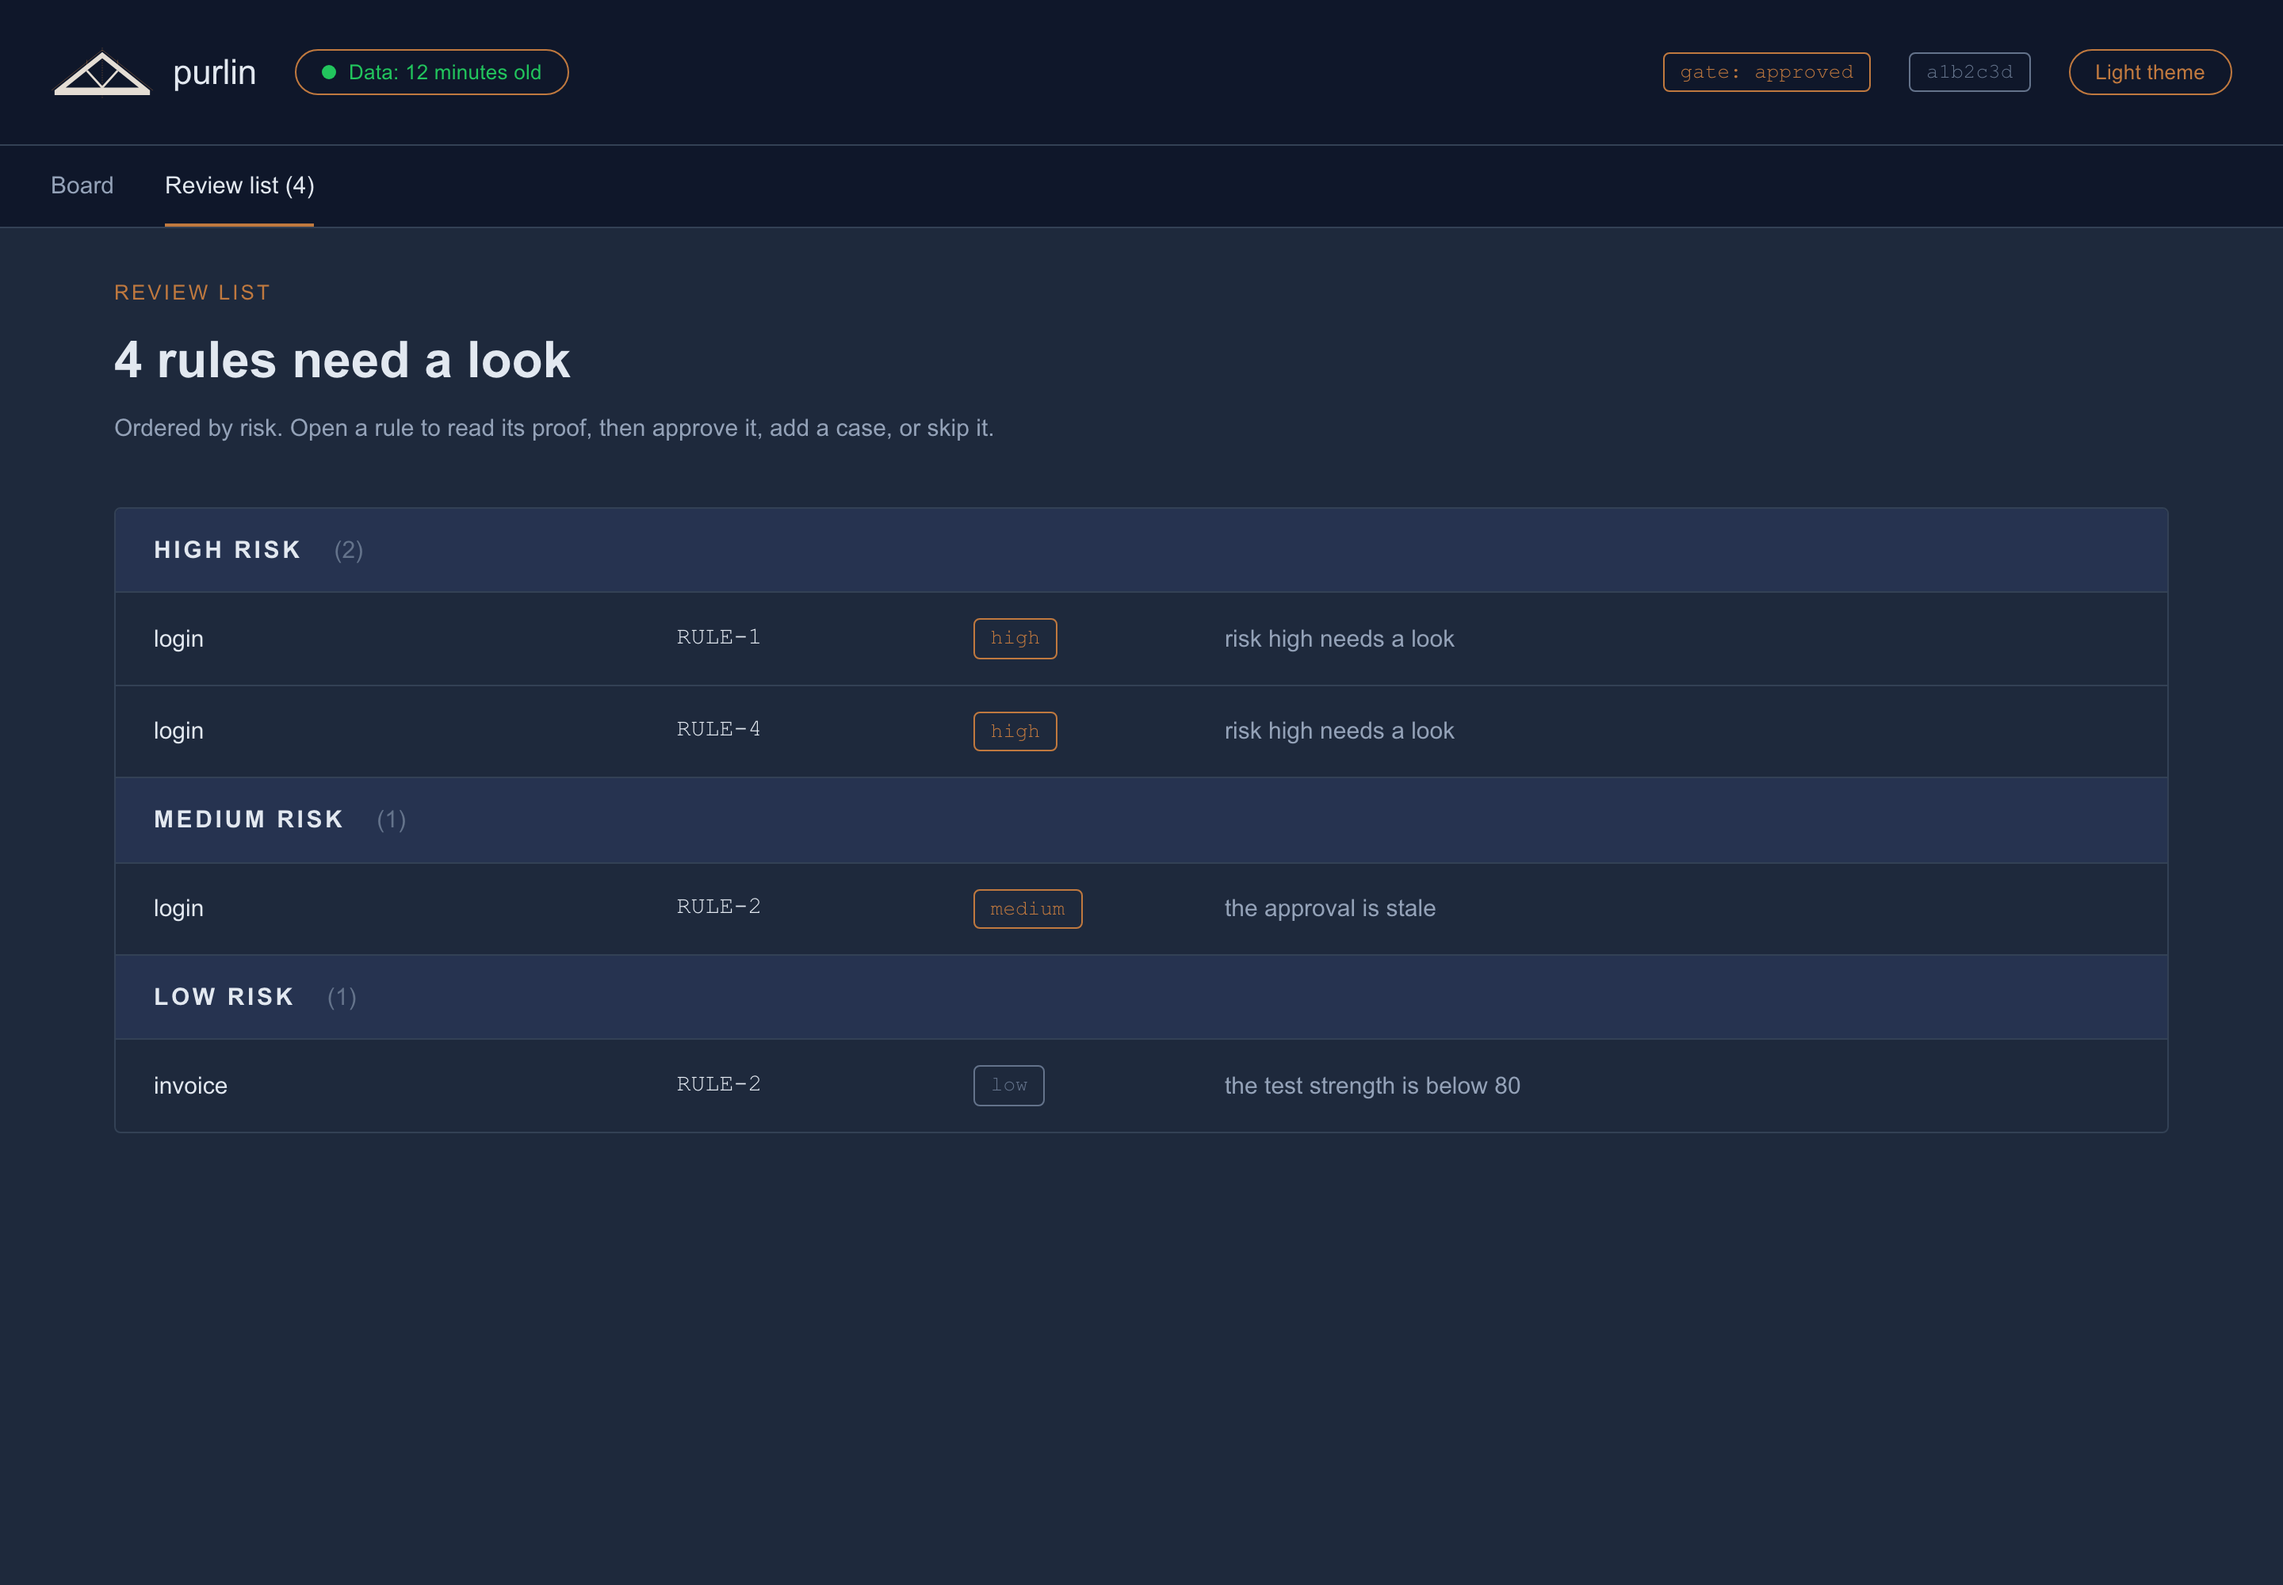
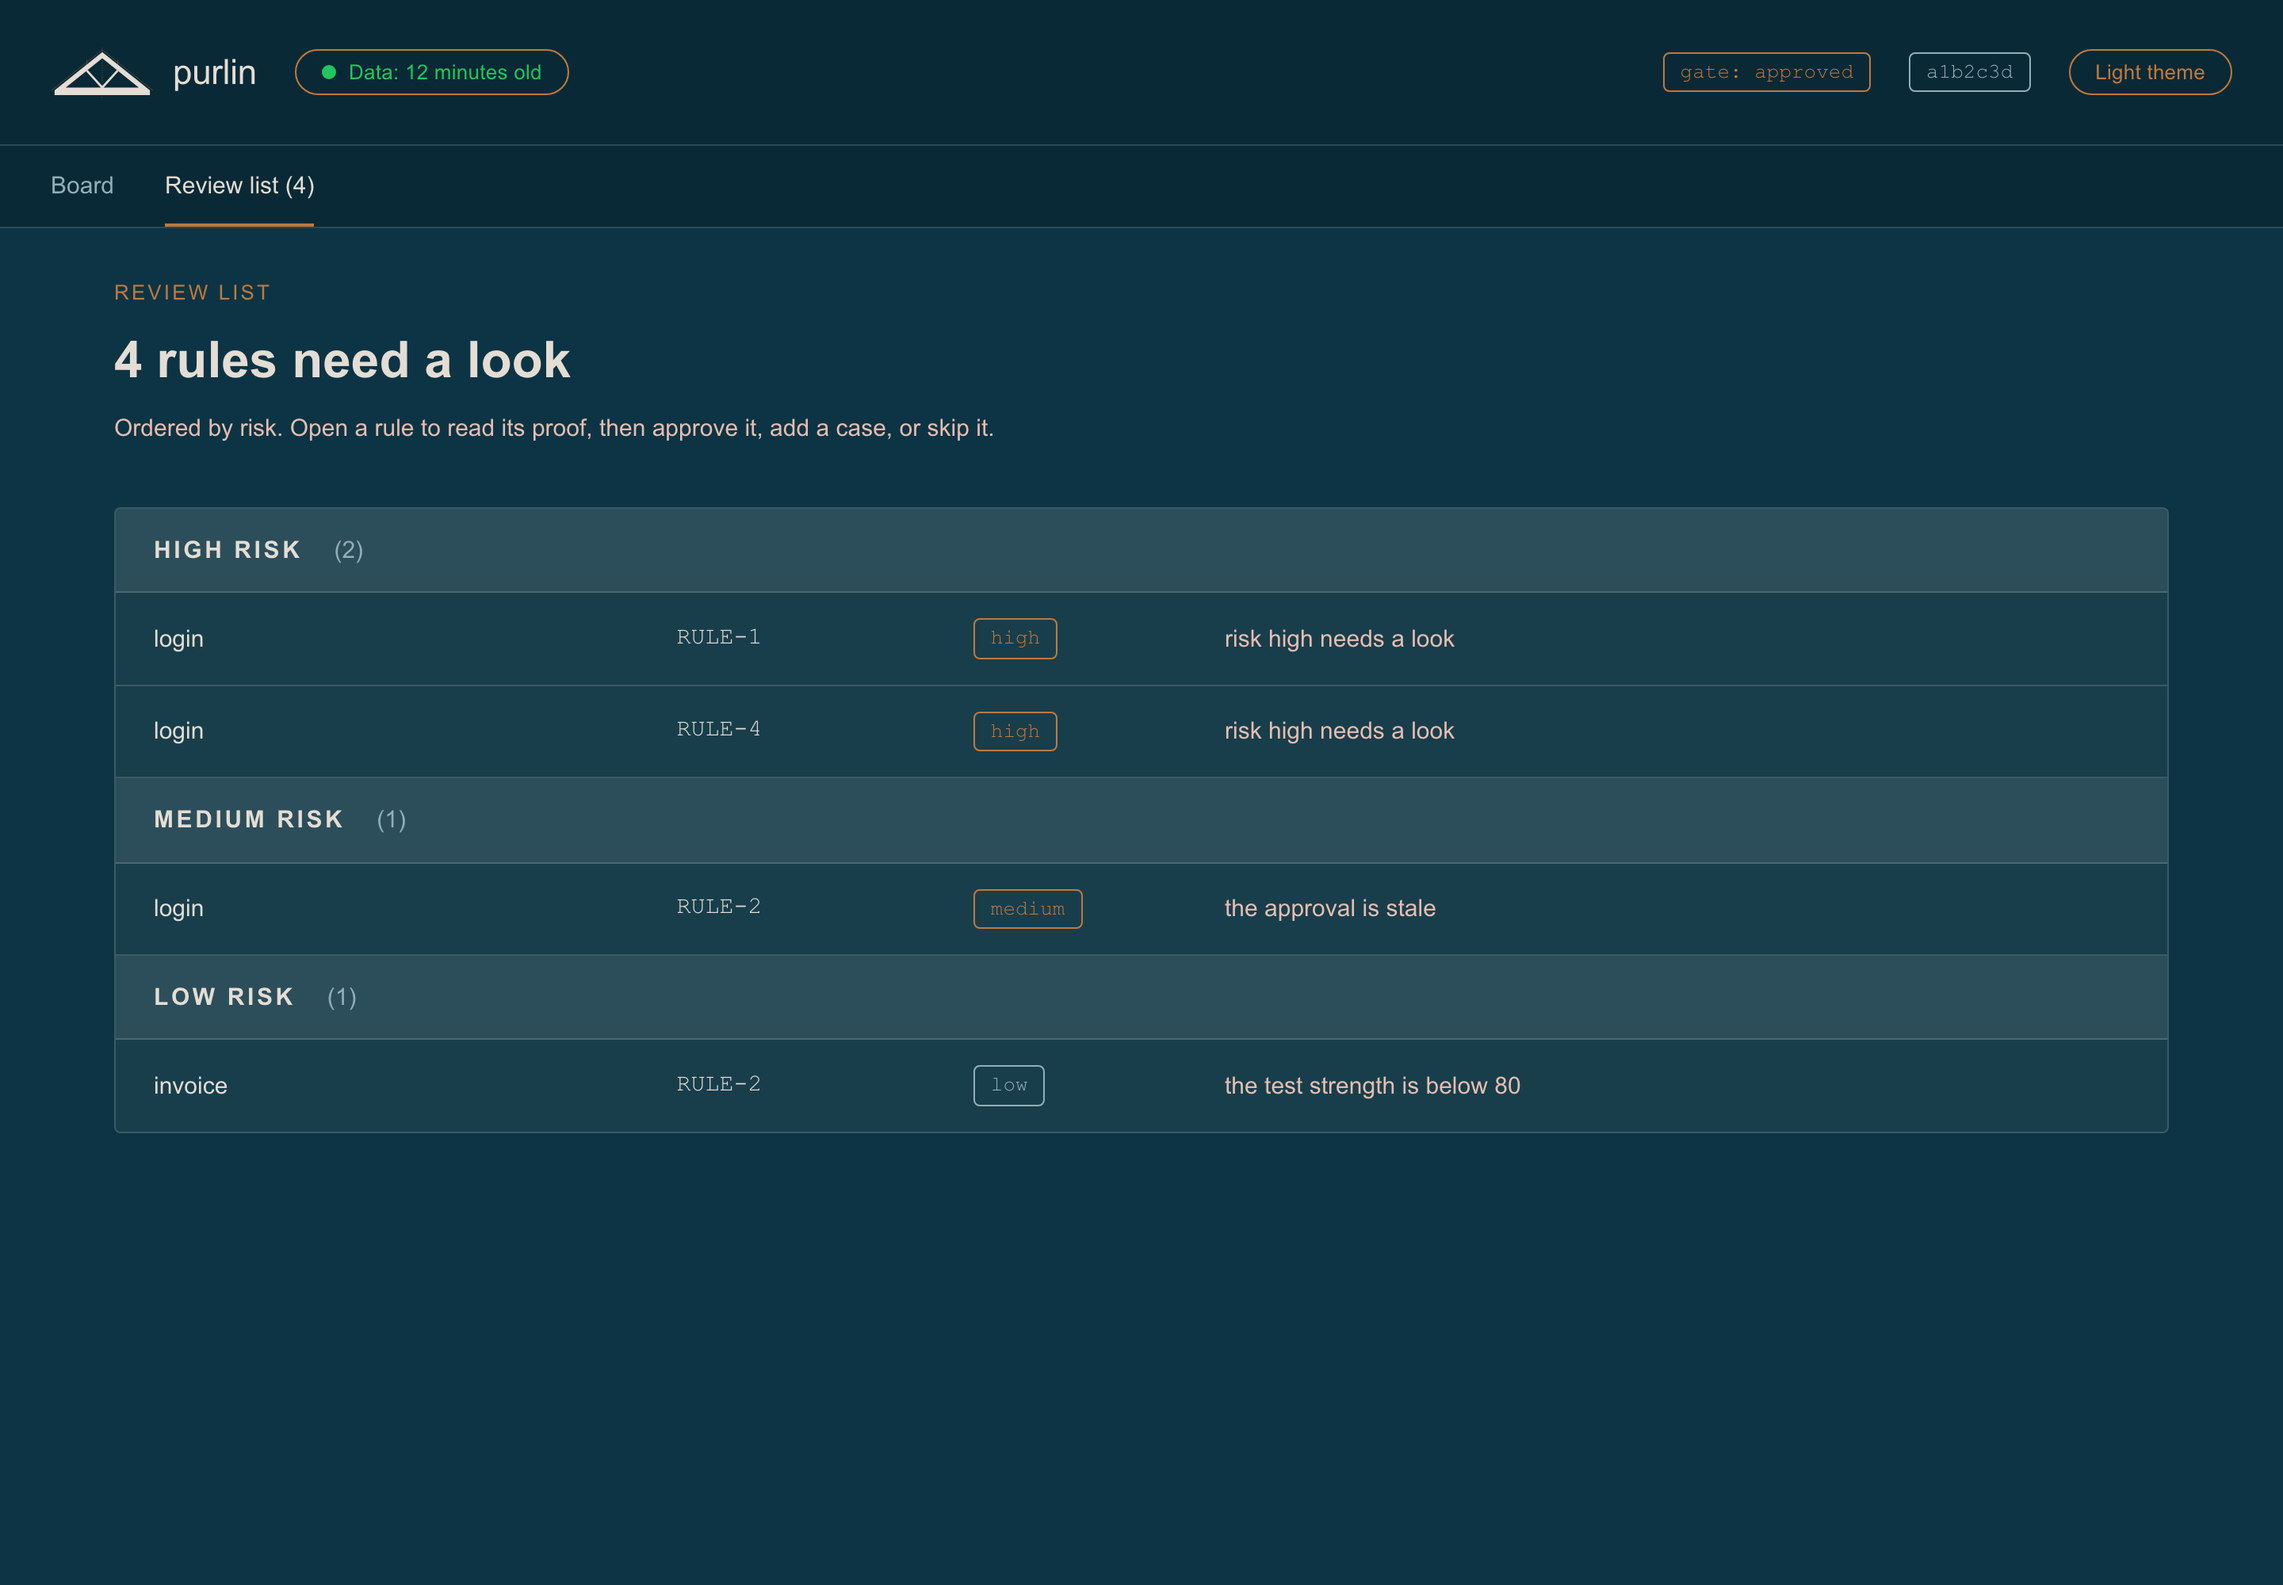
feat(purlin_report): the board on the brand navy, as the kit draws it
Changeset
- RULE-12  scripts/report/src/page.html:2  the root element drops
  data-surface="product", so the page takes the default warm theme from
  design/tokens/theme-dark.css and, under data-theme="light", the paper
  ramp.
- RULE-12  dev/build_report.py:97-120  the token block leaves out every
  rule block the design system scopes to [data-surface=...]: the board
  sets no such attribute, so those declarations could never apply, and a
  second ground in a file a person scrolls is a ground someone reaches
  for by mistake.
- RULE-3   scripts/report/src/styles.css:15,60,79-80  four text colours
  move to the alias the kit uses for that element: the inactive tab and
  the rule id and sentence in an expanded row follow OverviewScreen.jsx,
  the panel labels follow the Rule screen's secondary section label.
- RULE-23  docs/images/*.png  the five screenshots recaptured.

Decisions
- Stat tiles, panels and the spec table stay on --surface-1, one tint
  step above the ground with a hairline, which is the readme's Cards rule
  and what the kit's Panel does. The group band stays --surface-2 and the
  expanded rules --surface-sunken, so the depth is a stack of tint steps
  rather than a shadow.
- Border widths, radii and spacing are untouched: this is a colour change
  and nothing else moves.

Review
- The light theme is the yellowish-white paper ramp the tokens already
  carried; nothing in it changed.

Claude-Session: https://claude.ai/code/session_01PA1RaoK77G1rNdVdQbavg6

diff --git a/scripts/report/purlin-report.html b/scripts/report/purlin-report.html
@@ -1,5 +1,5 @@
 <!DOCTYPE html>
-<html lang="en" data-theme="dark" data-surface="product">
+<html lang="en" data-theme="dark">
 <head>
 <meta charset="utf-8">
 <meta name="viewport" content="width=device-width, initial-scale=1">
@@ -72,21 +72,6 @@
   --link:var(--purlin-blush-200);
   --link-hover:var(--purlin-copper-500);
 }
-[data-surface="product"]{
-  --canvas:var(--slate-800);
-  --canvas-deep:var(--slate-950);
-  --surface-1:var(--slate-800);
-  --surface-2:var(--slate-750);
-  --surface-sunken:var(--slate-900);
-  --text-primary:var(--slate-200);
-  --text-secondary:var(--slate-400);
-  --text-muted:var(--slate-500);
-  --border-hairline:var(--slate-700);
-  --border-default:var(--slate-700);
-  --border-strong:var(--slate-500);
-  --link:var(--teal-400);
-  --link-hover:var(--slate-200);
-}
 [data-theme="light"]{
   --color-scheme:light;
   --canvas:var(--purlin-paper-050);
@@ -118,19 +103,6 @@
   --focus-ring:var(--copper-700);
   --link:var(--copper-700);
   --link-hover:var(--purlin-navy-800);
-}
-[data-theme="light"][data-surface="product"]{
-  --canvas:var(--purlin-paper-050);
-  --canvas-deep:var(--purlin-paper-100);
-  --surface-1:var(--white);
-  --surface-2:var(--purlin-paper-050);
-  --surface-sunken:var(--purlin-paper-100);
-  --text-primary:var(--purlin-navy-800);
-  --text-secondary:var(--purlin-ink-700);
-  --text-muted:var(--purlin-ink-500);
-  --border-hairline:var(--purlin-paper-300);
-  --border-default:var(--purlin-paper-300);
-  --border-strong:var(--purlin-ink-500);
 }
 :root{
   --font-sans:Arial,"Helvetica Neue",Helvetica,sans-serif;
@@ -238,7 +210,7 @@ button{font-family:inherit}
 .dot{width:9px;height:9px;border-radius:var(--radius-pill);background:currentColor;flex:none}
 .spacer{flex:1}
 .tabs{display:flex;gap:var(--space-8);padding:0 var(--space-8);background:var(--canvas-deep);border-bottom:1px solid var(--border-hairline)}
-.tabs button{background:none;border:0;border-bottom:2px solid transparent;color:var(--text-secondary);font-size:var(--ui-base);padding:var(--space-4) 0;cursor:pointer}
+.tabs button{background:none;border:0;border-bottom:2px solid transparent;color:var(--text-muted);font-size:var(--ui-base);padding:var(--space-4) 0;cursor:pointer}
 .tabs button[aria-current="page"]{color:var(--text-primary);border-bottom-color:var(--accent)}
 .wrap{max-width:1360px;margin:0 auto;padding:var(--space-8)}
 section{margin-bottom:var(--space-10)}
@@ -291,12 +263,12 @@ table.grid{border-collapse:collapse;width:100%}
 .name .n{font-size:var(--ui-base);color:var(--text-primary);overflow:hidden;text-overflow:ellipsis;white-space:nowrap}
 .rule{display:grid;grid-template-columns:96px 1fr auto auto;gap:var(--space-4);align-items:start;padding:var(--space-3) var(--space-6) var(--space-3) var(--space-12);border-bottom:1px solid var(--border-hairline);background:var(--surface-sunken);cursor:pointer;font-size:var(--ui-sm)}
 .rule:hover{background:var(--hover-tint)}
-.rule .rid{font-family:var(--font-mono);color:var(--text-muted)}
-.rule .rt{color:var(--text-primary)}
+.rule .rid{font-family:var(--font-mono);color:var(--text-primary)}
+.rule .rt{color:var(--text-secondary)}
 .right{text-align:right}
 .empty{padding:var(--space-12);text-align:center;color:var(--text-secondary);font-size:var(--ui-lg)}
 .kv{display:grid;grid-template-columns:170px 1fr;gap:var(--space-3) var(--space-6);margin:0;font-size:var(--ui-base)}
-.kv dt{font-size:var(--ui-xs);letter-spacing:var(--tracking-label);text-transform:uppercase;color:var(--text-muted);padding-top:2px}
+.kv dt{font-size:var(--ui-xs);letter-spacing:var(--tracking-label);text-transform:uppercase;color:var(--text-secondary);padding-top:2px}
 .kv dd{margin:0;color:var(--text-primary);min-width:0;overflow-wrap:anywhere}
 .stack>*+*{margin-top:var(--space-5)}
 .finding{font-size:var(--ui-sm);color:var(--state-warn)}

diff --git a/scripts/report/src/styles.css b/scripts/report/src/styles.css
@@ -13,7 +13,7 @@ button{font-family:inherit}
 .dot{width:9px;height:9px;border-radius:var(--radius-pill);background:currentColor;flex:none}
 .spacer{flex:1}
 .tabs{display:flex;gap:var(--space-8);padding:0 var(--space-8);background:var(--canvas-deep);border-bottom:1px solid var(--border-hairline)}
-.tabs button{background:none;border:0;border-bottom:2px solid transparent;color:var(--text-secondary);font-size:var(--ui-base);padding:var(--space-4) 0;cursor:pointer}
+.tabs button{background:none;border:0;border-bottom:2px solid transparent;color:var(--text-muted);font-size:var(--ui-base);padding:var(--space-4) 0;cursor:pointer}
 .tabs button[aria-current="page"]{color:var(--text-primary);border-bottom-color:var(--accent)}
 .wrap{max-width:1360px;margin:0 auto;padding:var(--space-8)}
 section{margin-bottom:var(--space-10)}
@@ -72,14 +72,14 @@ table.grid{border-collapse:collapse;width:100%}
 .name .n{font-size:var(--ui-base);color:var(--text-primary);overflow:hidden;text-overflow:ellipsis;white-space:nowrap}
 .rule{display:grid;grid-template-columns:96px 1fr auto auto;gap:var(--space-4);align-items:start;padding:var(--space-3) var(--space-6) var(--space-3) var(--space-12);border-bottom:1px solid var(--border-hairline);background:var(--surface-sunken);cursor:pointer;font-size:var(--ui-sm)}
 .rule:hover{background:var(--hover-tint)}
-.rule .rid{font-family:var(--font-mono);color:var(--text-muted)}
-.rule .rt{color:var(--text-primary)}
+.rule .rid{font-family:var(--font-mono);color:var(--text-primary)}
+.rule .rt{color:var(--text-secondary)}
 .right{text-align:right}
 .empty{padding:var(--space-12);text-align:center;color:var(--text-secondary);font-size:var(--ui-lg)}
 
 /* --- rule and review screens ----------------------------------------- */
 .kv{display:grid;grid-template-columns:170px 1fr;gap:var(--space-3) var(--space-6);margin:0;font-size:var(--ui-base)}
-.kv dt{font-size:var(--ui-xs);letter-spacing:var(--tracking-label);text-transform:uppercase;color:var(--text-muted);padding-top:2px}
+.kv dt{font-size:var(--ui-xs);letter-spacing:var(--tracking-label);text-transform:uppercase;color:var(--text-secondary);padding-top:2px}
 .kv dd{margin:0;color:var(--text-primary);min-width:0;overflow-wrap:anywhere}
 .stack>*+*{margin-top:var(--space-5)}
 .finding{font-size:var(--ui-sm);color:var(--state-warn)}

diff --git a/scripts/report/src/page.html b/scripts/report/src/page.html
@@ -1,5 +1,5 @@
 <!DOCTYPE html>
-<html lang="en" data-theme="dark" data-surface="product">
+<html lang="en" data-theme="dark">
 <head>
 <meta charset="utf-8">
 <meta name="viewport" content="width=device-width, initial-scale=1">

diff --git a/dev/build_report.py b/dev/build_report.py
@@ -14,7 +14,12 @@ Four substitutions, in this order:
                       `<style id="purlin-tokens">` block. Every colour on the
                       page resolves here, which is why the block is named: the
                       page's own acceptance check reads it to prove no raw
-                      colour was written anywhere else.
+                      colour was written anywhere else. The rule blocks the
+                      design system scopes to `[data-surface=...]` are left
+                      out: the board sets no surface attribute, so those
+                      declarations could never apply, and carrying a second
+                      ground the page never shows invites the next reader to
+                      reach for it.
 `/*PURLIN:STYLES*/`   `src/styles.css`.
 `/*PURLIN:LOGO*/`     the mark from `design/assets/logo-datauri.js` in both
                       colourways. The light one is the dark one with the two
@@ -99,9 +104,29 @@ def strip_js(text):
     return '\n'.join(kept)
 
 
+def drop_surface_rules(text):
+    """The same CSS with every `[data-surface=...]` rule block removed.
+
+    The design system ships one set of grounds per surface and scopes the
+    second set to that attribute. The board carries no such attribute, so
+    those declarations are dead weight in a file a person scrolls.
+    """
+    kept = []
+    depth = 0
+    for line in text.splitlines():
+        if depth:
+            depth += line.count('{') - line.count('}')
+            continue
+        if 'data-surface' in line and line.rstrip().endswith('{'):
+            depth = 1
+            continue
+        kept.append(line)
+    return '\n'.join(kept)
+
+
 def token_block():
-    return '\n'.join(strip_css(read(os.path.join(TOKENS, name)))
-                     for name in TOKEN_FILES)
+    return '\n'.join(drop_surface_rules(strip_css(read(
+        os.path.join(TOKENS, name)))) for name in TOKEN_FILES)
 
 
 def logo_block():
